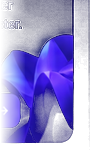
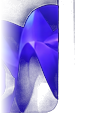
fix(ui): eliminate silk wave baked text, remove stray petal mark, and expand right column to prevent text wrapping

diff --git a/frontend/src/components/HealthScoreCard.tsx b/frontend/src/components/HealthScoreCard.tsx
@@ -18,14 +18,15 @@ export default function HealthScoreCard({ score = 94, summary }: HealthScoreCard
       border: '1px solid rgba(255, 255, 255, 0.08)',
       borderTop: '1px solid rgba(255, 255, 255, 0.16)',
       borderRadius: 16,
-      padding: '16px 22px',
+      padding: '16px 24px',
       display: 'flex',
       alignItems: 'center',
-      gap: 20,
+      gap: 24,
       overflow: 'hidden',
       boxShadow: '0 8px 32px rgba(0, 0, 0, 0.45)',
+      width: '100%',
     }}>
-      {/* 100% Authentic Luminous Silk Wave from Reference */}
+      {/* 100% Text-Free Luminous Silk Wave from Reference */}
       <img
         src={luminousWave}
         alt="Luminous Silk Wave"
@@ -35,7 +36,7 @@ export default function HealthScoreCard({ score = 94, summary }: HealthScoreCard
           right: 0,
           height: '100%',
           width: 'auto',
-          maxHeight: 140,
+          maxWidth: 220,
           objectFit: 'contain',
           pointerEvents: 'none',
           opacity: 0.95,
@@ -112,7 +113,7 @@ export default function HealthScoreCard({ score = 94, summary }: HealthScoreCard
       </div>
 
       {/* Middle Text Details */}
-      <div style={{ position: 'relative', zIndex: 2, maxWidth: 320 }}>
+      <div style={{ position: 'relative', zIndex: 2, flex: 1, minWidth: 240, maxWidth: 360 }}>
         {/* Status Badge */}
         <div style={{
           display: 'inline-flex',
@@ -133,17 +134,17 @@ export default function HealthScoreCard({ score = 94, summary }: HealthScoreCard
 
         {/* Heading */}
         <h2 style={{
-          fontSize: '1.15rem',
+          fontSize: '1.18rem',
           fontWeight: 700,
           letterSpacing: '-0.02em',
           color: '#ffffff',
-          marginBottom: 3,
+          marginBottom: 4,
           lineHeight: 1.25,
         }}>
           Design Health Score
         </h2>
 
-        {/* Explanatory Assessment */}
+        {/* Explanatory Assessment on 2 Clean Lines */}
         <p style={{
           fontSize: '0.76rem',
           color: '#A1AAC2',

diff --git a/frontend/src/App.tsx b/frontend/src/App.tsx
@@ -247,8 +247,10 @@ export default function App() {
         {activeTab === 'audit' && (
           <div style={{
             display: 'flex',
-            gap: 16,
+            gap: 20,
             alignItems: 'flex-start',
+            width: '100%',
+            minWidth: 840,
           }}>
             {/* Column 1: Uploaded Design Card */}
             <UploadDesignCard
@@ -262,7 +264,7 @@ export default function App() {
               display: 'flex',
               flexDirection: 'column',
               gap: 16,
-              minWidth: 0,
+              minWidth: 560,
             }}>
               {/* Health Score Card */}
               <HealthScoreCard
